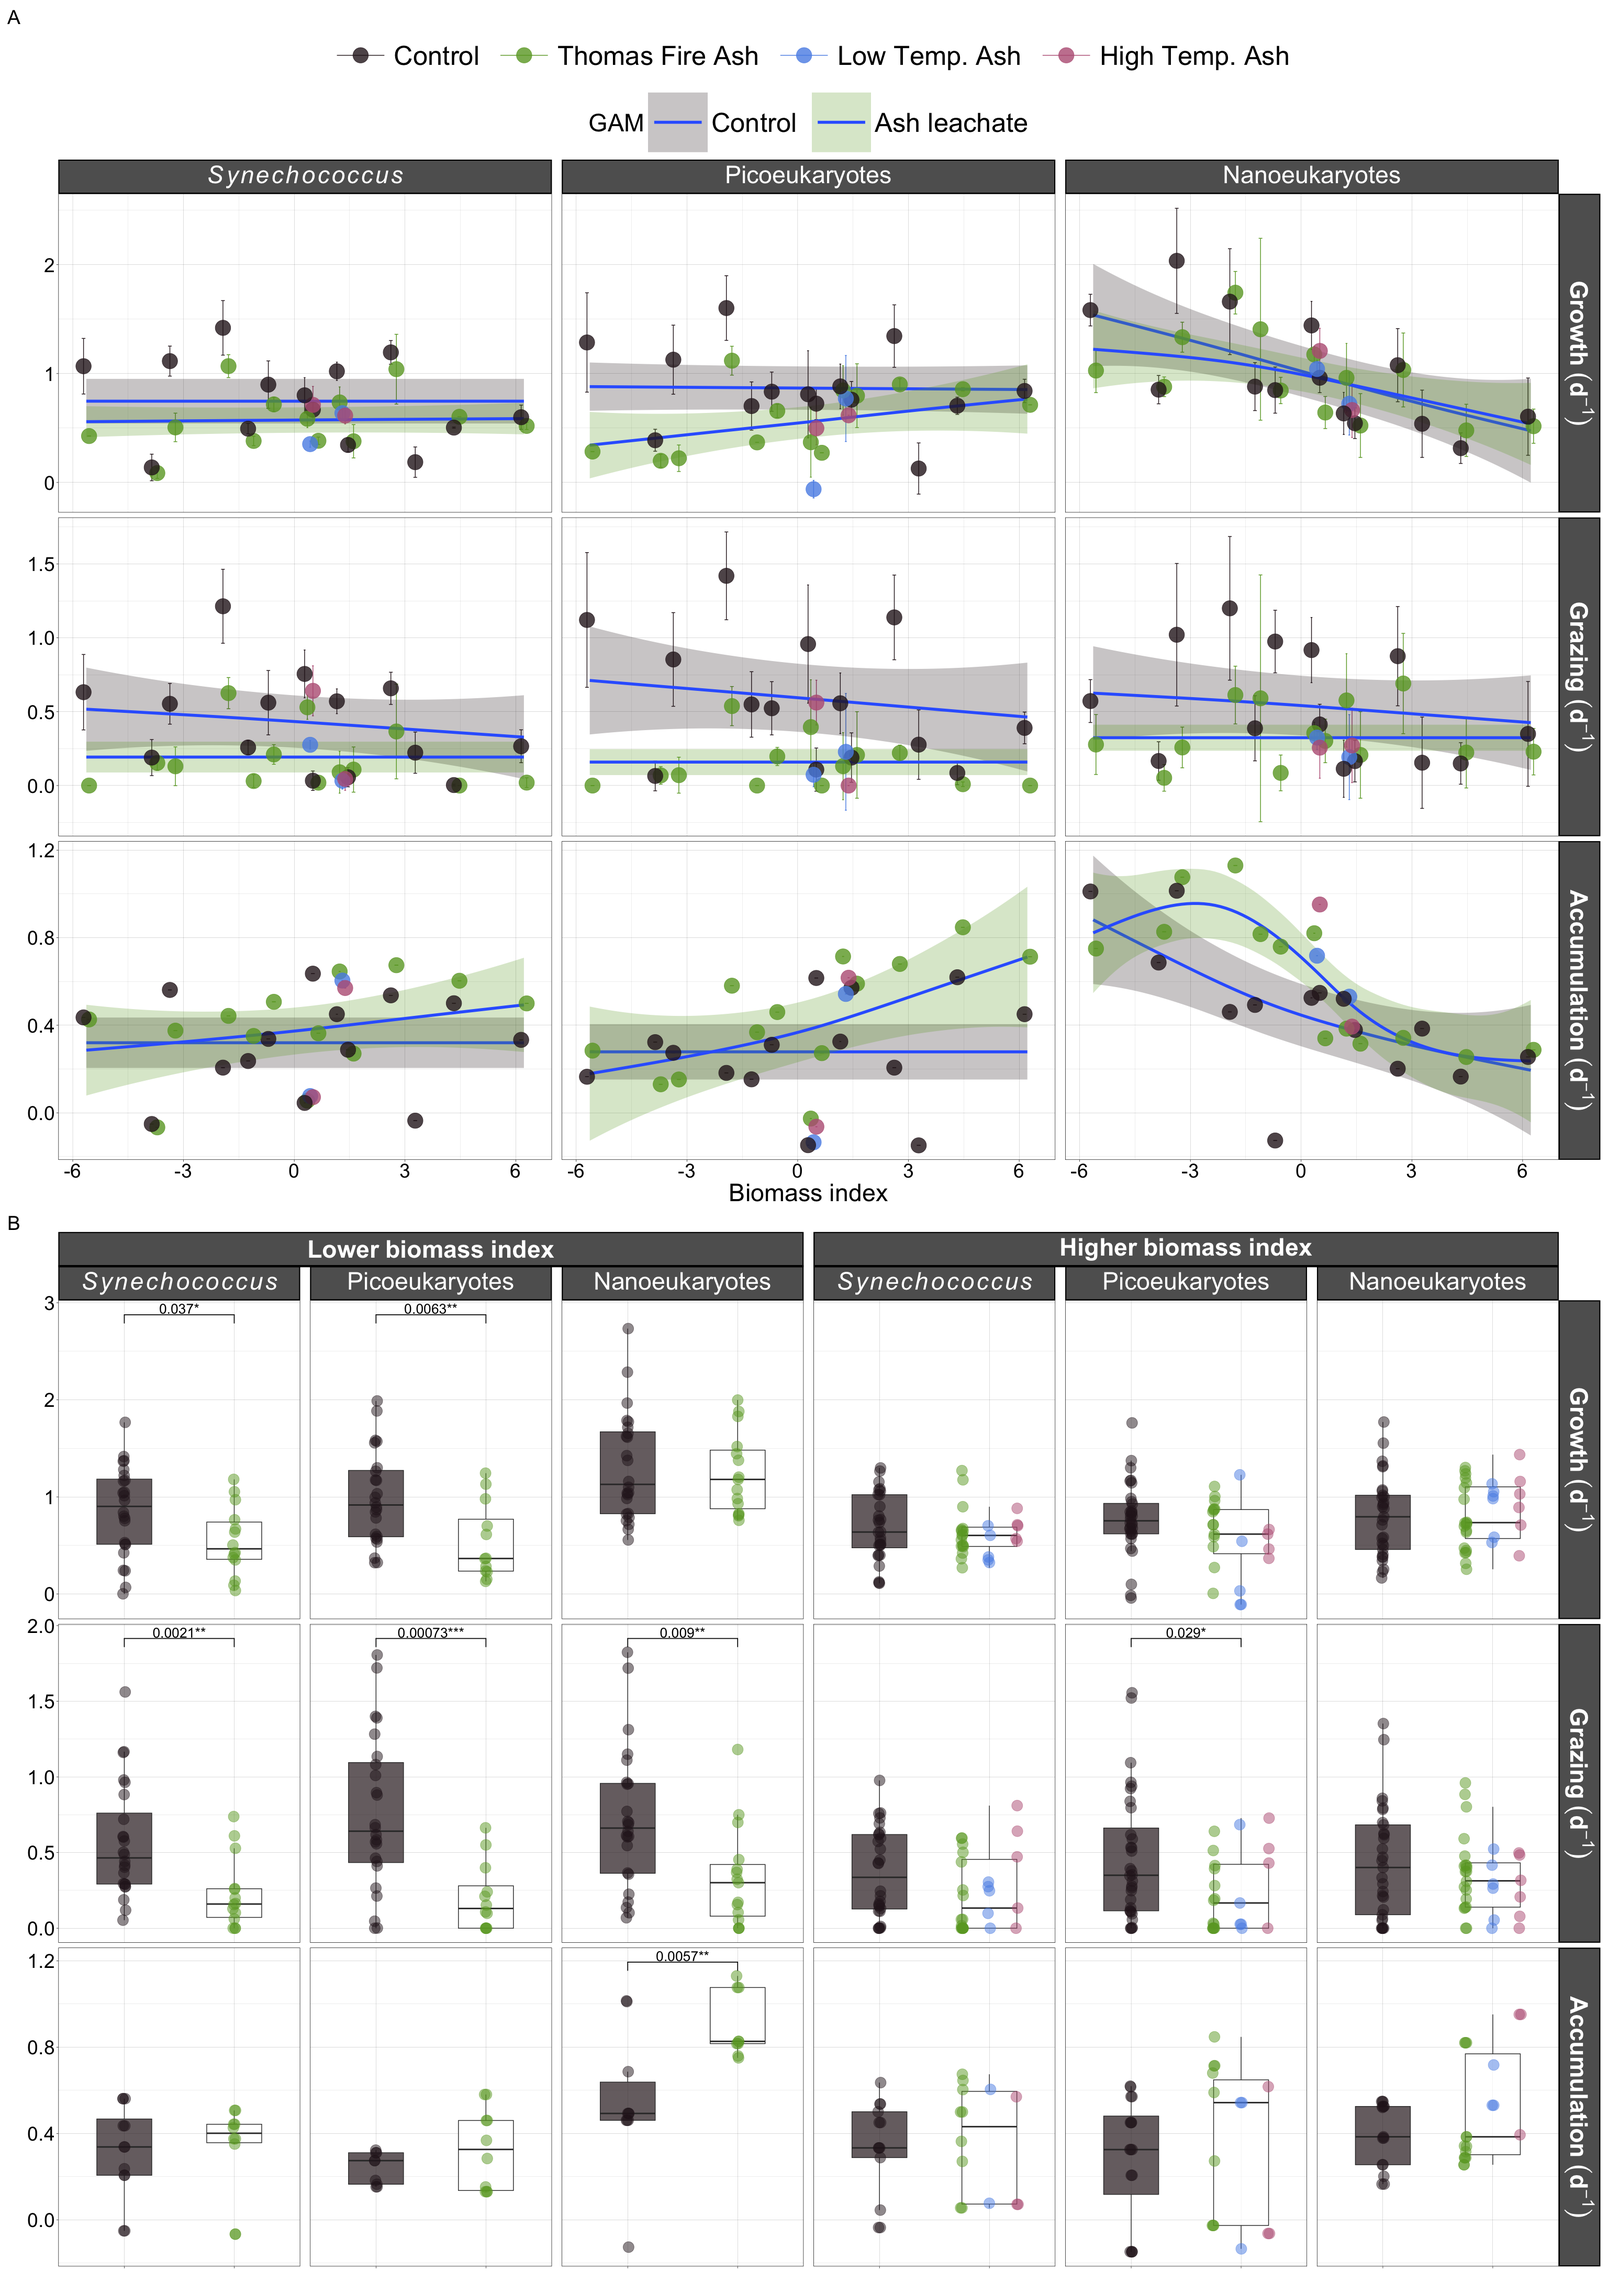
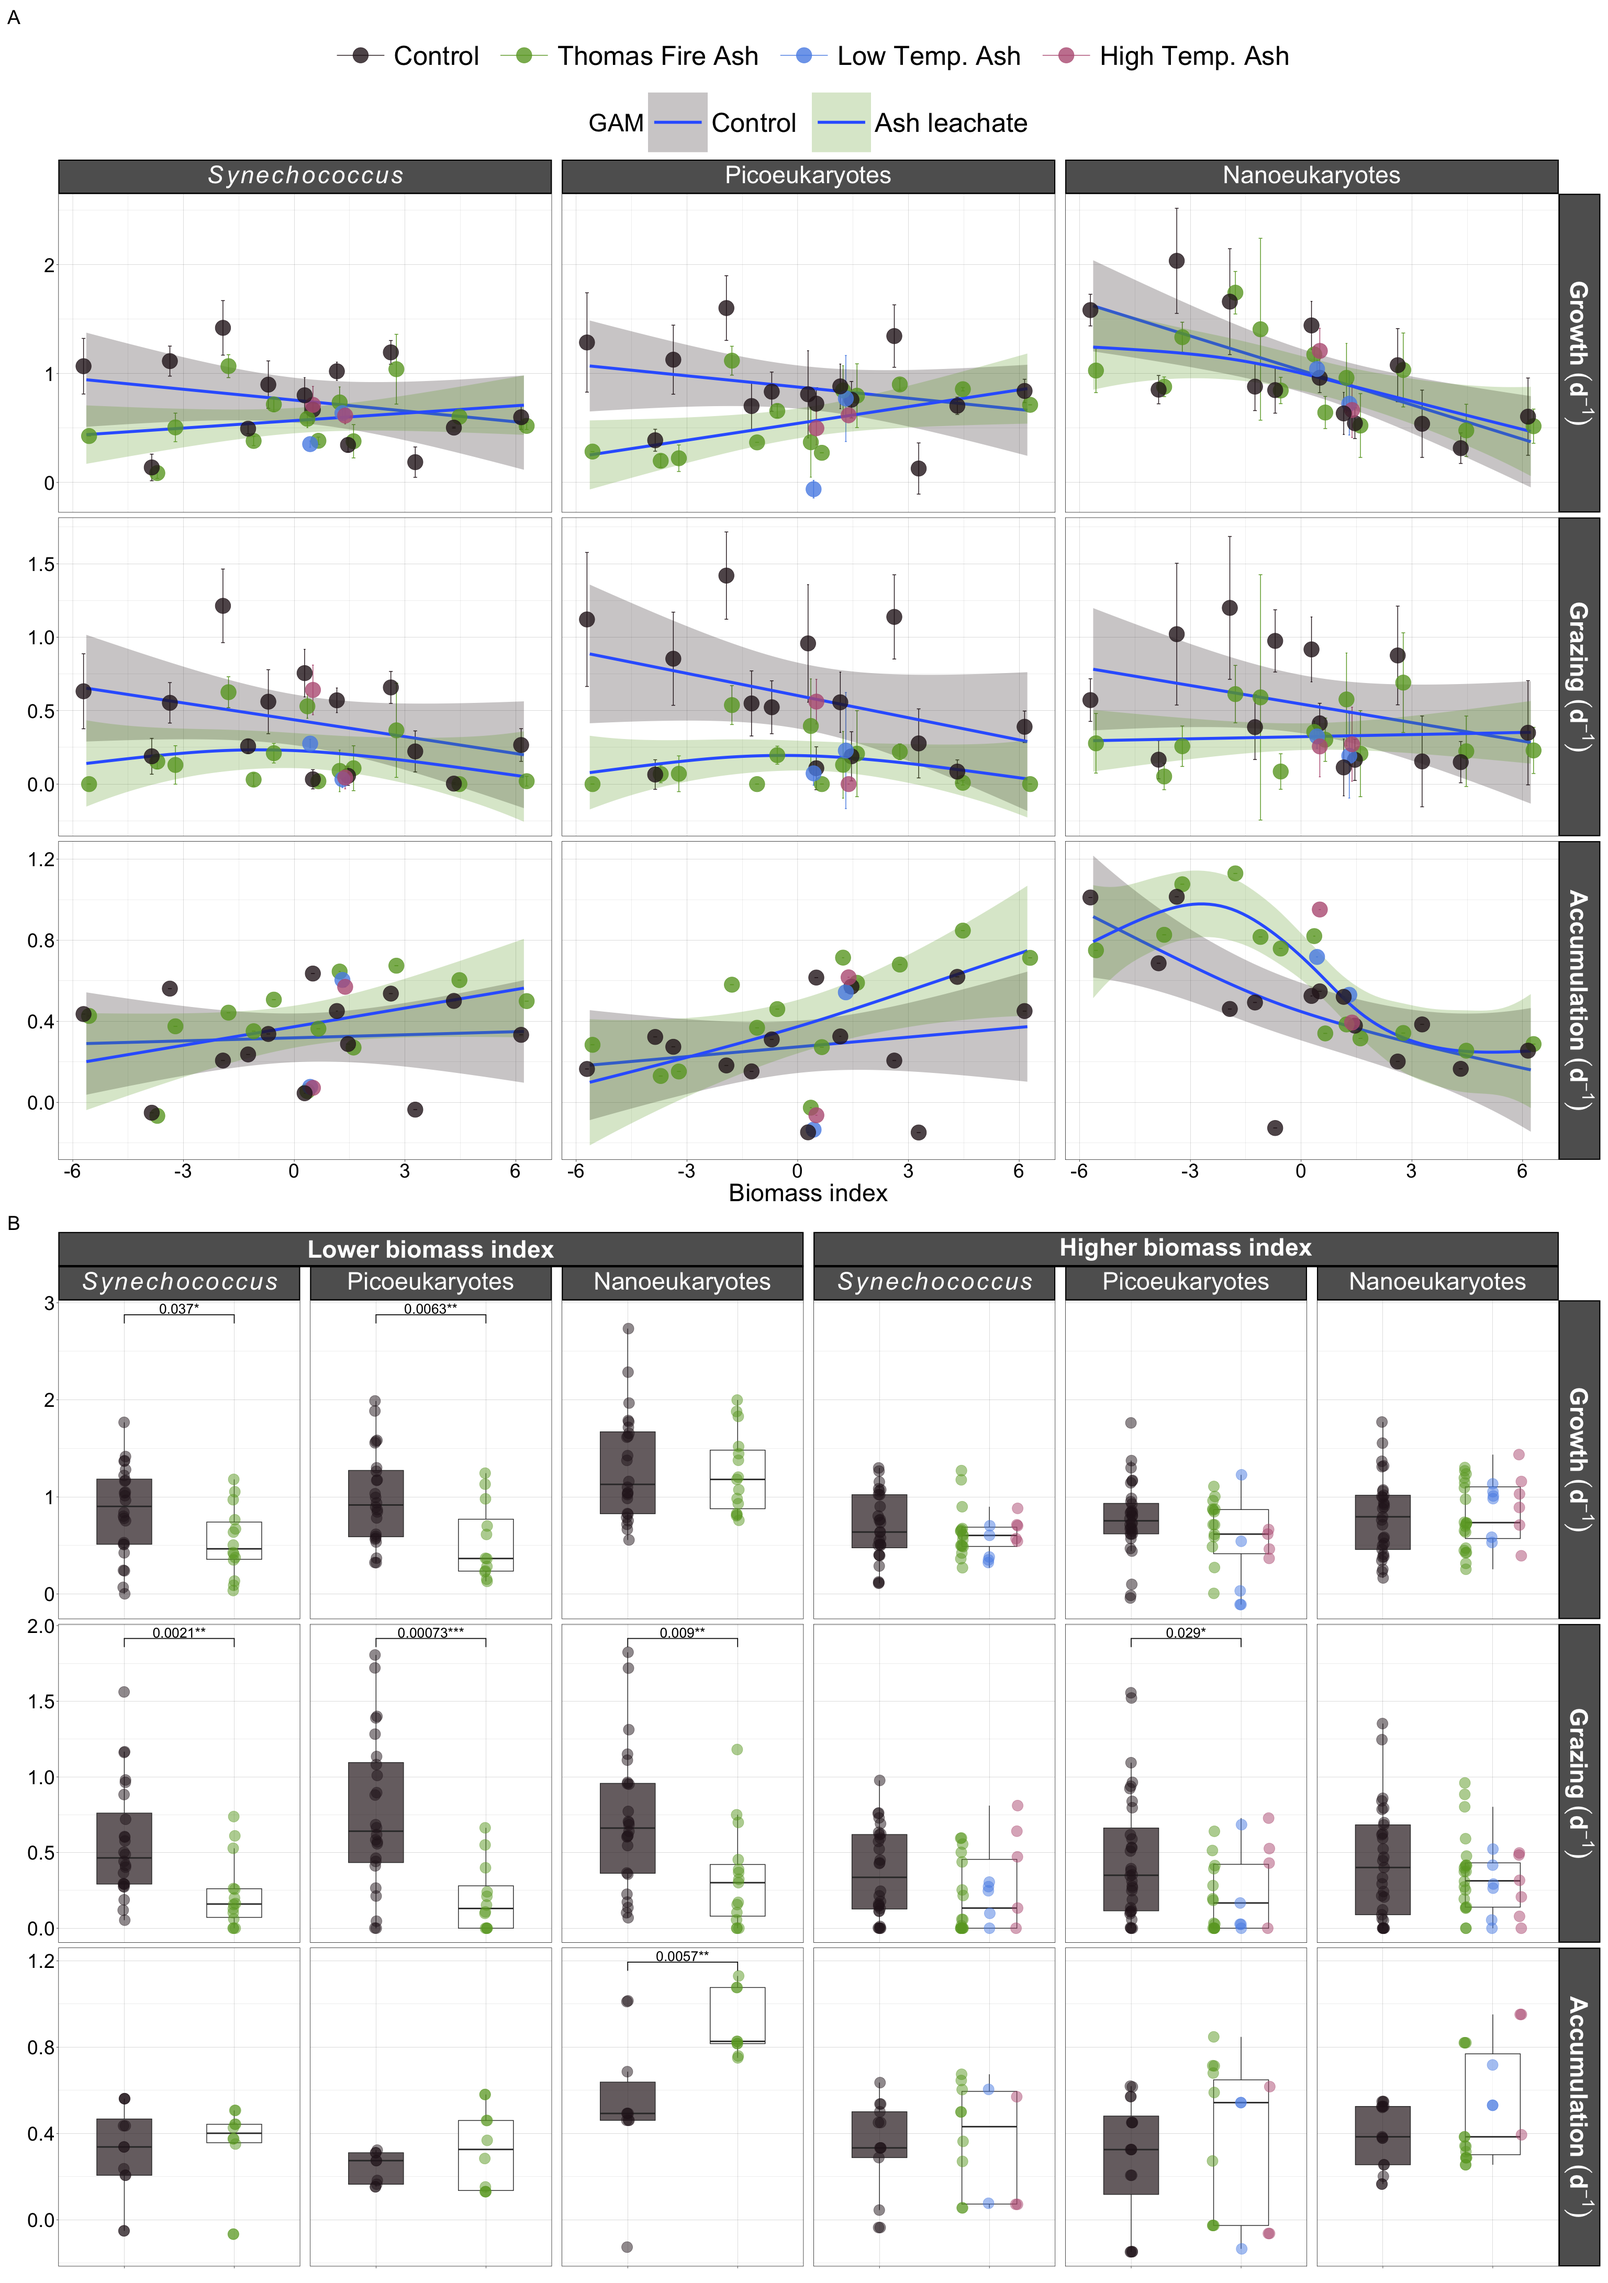
add knitted product

diff --git a/knitted/6_dilution_exps.md b/knitted/6_dilution_exps.md
@@ -235,7 +235,7 @@ dots <- ggplot(p_rates_summary ,
                     ymax = val + sd),
                 width = .2,
                 position = position_dodge(.3)) +
-  stat_smooth(aes(fill = factor(amend, levels = plot_levels)),method = "gam", formula = y ~ s(x, bs = "cs"), alpha = 0.25, size = 2) +
+  stat_smooth(aes(fill = factor(amend, levels = plot_levels)),method = "gam", formula = y ~ s(x, bs = "tp"), alpha = 0.25, size = 2) +
    geom_point(aes(color = factor(trt, levels = plot_levels)), position = position_dodge(width = 0.3),
              size = 10,
              alpha = 0.8) +
